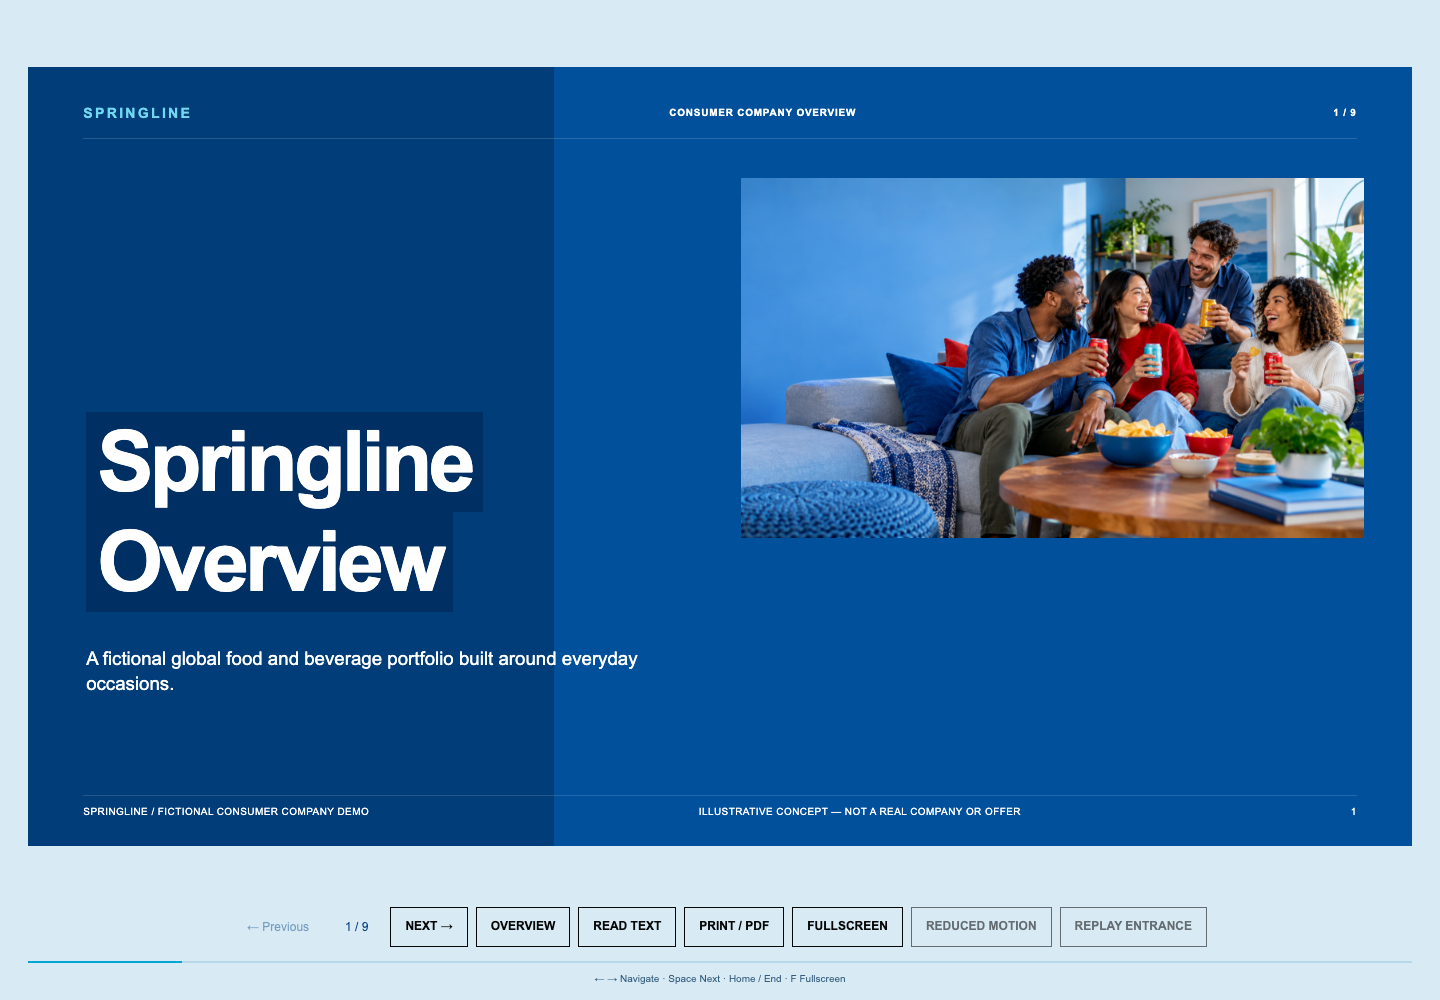
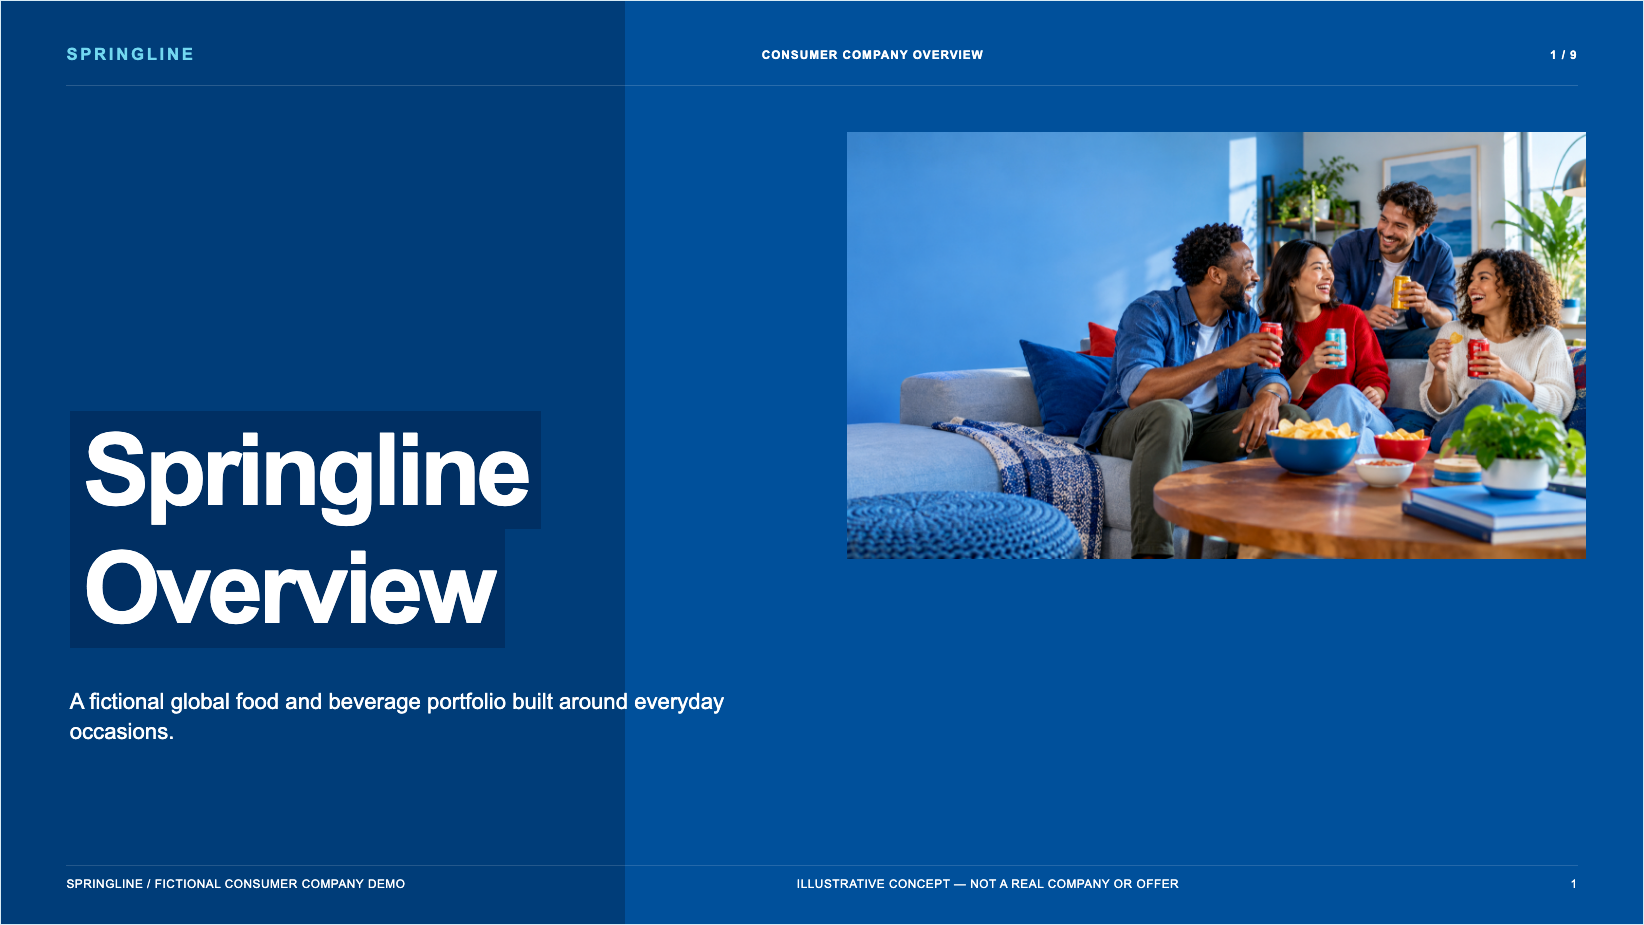
Refresh showcase previews and fourth deck card

diff --git a/deployment/index.html b/deployment/index.html
@@ -4,7 +4,7 @@
     <meta charset="utf-8">
     <meta name="viewport" content="width=device-width, initial-scale=1">
     <title>Kujo Presentations — Slides, authored for the web</title>
-    <meta name="description" content="Explore four complete Kujo Presentations demos: the original media deck, an investor pitch, a consumer company overview, and a live talk.">
+    <meta name="description" content="Explore four complete Kujo Presentations demos: the original media deck, an investor pitch, a consumer company overview, and an AI workforce research report.">
     <link rel="canonical" href="https://presentations.kujolang.ai/">
     <meta property="og:type" content="website">
     <meta property="og:title" content="Kujo Presentations">
@@ -43,8 +43,8 @@
           <span class="card-copy"><span class="index">03</span><span><span class="type">Company overview</span><strong>Springline</strong><span class="description">A portfolio-led consumer brand story for everyday occasions.</span></span></span>
         </a>
         <a class="card talk" href="/live-talk/">
-          <span class="preview"><img src="/assets/previews/live-talk.png" alt="The Shape of an Idea live talk cover"><span class="arrow" aria-hidden="true">↗</span></span>
-          <span class="card-copy"><span class="index">04</span><span><span class="type">Live talk</span><strong>The Shape of an Idea</strong><span class="description">A teaching arc designed for a live audience.</span></span></span>
+          <span class="preview"><img src="/assets/previews/live-talk.png" alt="Morrow Worklab AI workforce research report cover"><span class="arrow" aria-hidden="true">↗</span></span>
+          <span class="card-copy"><span class="index">04</span><span><span class="type">Research report</span><strong>Morrow Worklab</strong><span class="description">A survey-driven story about AI adoption, workflows, and agents.</span></span></span>
         </a>
       </section>
     </main>
